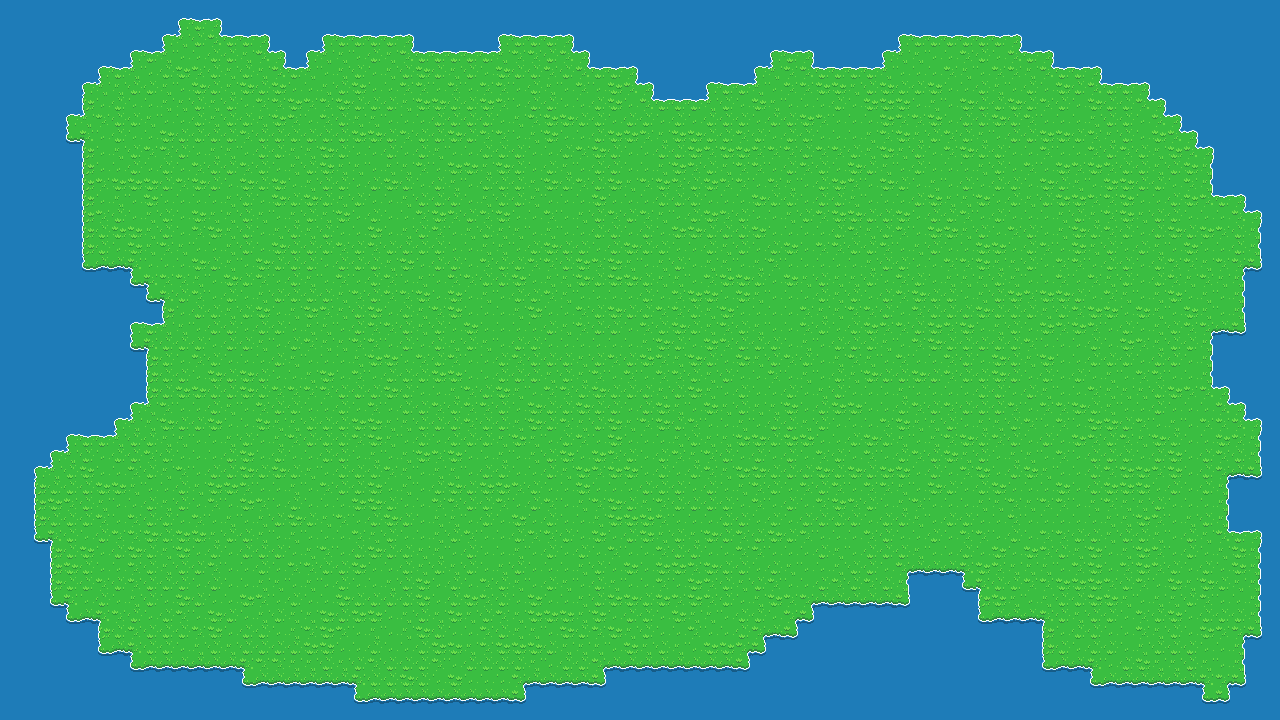
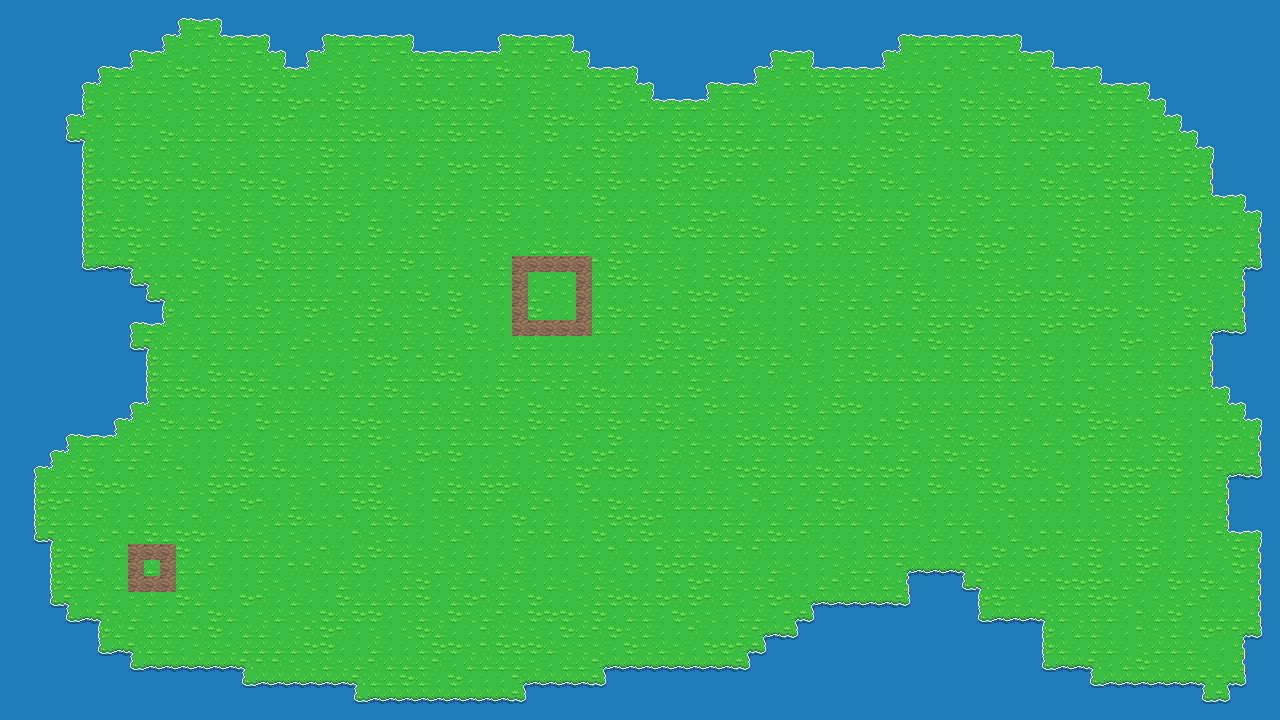
Création de l'entité house

Changed region(s): [[0.375, 0.3361, 0.4688, 0.4889], [0.0938, 0.7333, 0.1562, 0.825]]

diff --git a/src/world.py b/src/world.py
@@ -6,6 +6,7 @@ from debug import debug
 from src.player import Player
 from src.weapon import Weapon
 from src.enemy import Enemy
+from src.house import House
 from src.toolbox.import_world import get_info_map
 from src.ui import UI
 
@@ -50,6 +51,7 @@ class World():
         
     def createWorld(self):
         player_spawn = []
+        house_spawn = []
         layout = get_info_map(self.map_name)
         for style, layer in layout.items():
             for row_index, row in enumerate(layer):
@@ -59,12 +61,14 @@ class World():
                     if tile_id != 0 :
                         if style == 'boundary':
                             Tile((x,y),[self.obstacle_sprites], 'invisible')
-                        if style =='data':
-                            if tile_id == 11 :
+                        if style =='entity':
+                            if tile_id == 50 :
                                 player_spawn.append([x, y])
-                            if tile_id == 22 :
+                            if tile_id == 48 :
                                 self.mob_spawn.append([x, y])
-        
+                            if tile_id == 49 :
+                                house_spawn.append([x, y])
+        # TODO faire une fonction pour chech if empty
         if len(player_spawn) == 0 :
             player_spawn.append([WIDTH/2, HEIGHT/2])
             # TODO ficher de log
@@ -72,9 +76,13 @@ class World():
         if len(self.mob_spawn) == 0 :
             self.mob_spawn.append([WIDTH/2, HEIGHT/2])
             print(f'INFO - Pas de tile de spawn des ennemies dans {self.map_name}')
+        if len(house_spawn) == 0 :
+            house_spawn.append([WIDTH/2, HEIGHT/2])
+            print(f'INFO - Pas de tile de spawnde la maison dans {self.map_name}')
         
         self.player = Player((random.choice(player_spawn)), [self.visible_sprites], self.obstacle_sprites, self.createAttack, self.destory_attack)   
-        self.spawnEnemy(10)
+        self.house = House((random.choice(house_spawn)), [self.visible_sprites, self.obstacle_sprites])
+        self.spawnEnemy(0)
 
     def spawnEnemy(self, numberOfEnemy):
         enemy_list = []

diff --git a/settings.py b/settings.py
@@ -4,6 +4,7 @@ FPS = 60
 
 TILE_SIZE = 16
 GAME_UPSCALE = 4
+
 #UI
 BAR_HEIGHT = 20
 HEALTH_BAR_WIDTH = 200
@@ -35,10 +36,17 @@ weapons_data = {
     'sword' : {'cooldown' : 100, 'damage' : 10, 'graphic' : 'assets/weapon/sword/full.png'},
     'axe' : {'cooldown' : 200, 'damage' : 5, 'graphic' : 'assets/weapon/axe/full.png'}}
 
-#Enemys
+# Enemys
 monster_data = {
     'skull' : {'health' : 20,    'damage' : 5, 'gold_amount': 1, 'attack_type' : 'slash', 'attack_sound' : None, 'speed' : 5, 'resistance' : 3, 'attack_radius': 20, 'notice_radius': 360},
     'cyclope' : {'health' : 100, 'damage' : 15, 'gold_amount': 5, 'attack_type' : 'claw',  'attack_sound' : None, 'speed' : 3, 'resistance' : 10, 'attack_radius': 50, 'notice_radius': 360}}
+
+# House
+house_data = {
+    'health': 1000,
+    'graphic' : { 'asset' : 'assets\entity\maison.png', 'width' : 80, 'height' : 80}
+}
+
 
 # MAP
 EMPTY_MAP = "map_empty_80_45"

diff --git a/src/house.py b/src/house.py
@@ -1,0 +1,26 @@
+import pygame
+
+from settings import *
+from src.entity import Entity, SpriteSheet
+
+
+class House(Entity):
+
+    def __init__(self, position, groups):
+        super().__init__(groups)
+        
+        spritesheet_image = pygame.image.load(house_data['graphic']['asset']).convert_alpha()
+        spritesheet_sprite = SpriteSheet(spritesheet_image)
+        self.image = spritesheet_sprite.get_image(0, 0, 80, 80)
+        position[0] -= TILE_SIZE*GAME_UPSCALE*2
+        position[1] -= TILE_SIZE*GAME_UPSCALE*2
+        self.rect = self.image.get_rect(topleft = position)
+
+        self.hitbox = self.rect.inflate(0, 0).move(0, 0)
+
+        #stats
+        self.health = house_data['health']
+        
+
+
+

diff --git a/src/toolbox/import_world.py b/src/toolbox/import_world.py
@@ -4,7 +4,7 @@ def get_info_map(map_name):
     tmxdata = pytmx.TiledMap("assets\\map\\tmx\\"+map_name+".tmx")
     layout = {
             "boundary" : tmxdata.get_layer_by_name("collision").data,
-            "data" : tmxdata.get_layer_by_name("data").data
+            "entity" : tmxdata.get_layer_by_name("entity").data
             }
     return layout
 

diff --git a/src/player.py b/src/player.py
@@ -13,7 +13,6 @@ class Player(Entity) :
         self.rect = self.image.get_rect(topleft = position)
         hb_y_size_reduc = 10
         self.hitbox = self.rect.inflate(0,-hb_y_size_reduc*GAME_UPSCALE).move(0,hb_y_size_reduc/2*GAME_UPSCALE)
-        self.obstacle_sprites = obstacle_sprites
 
         #stats
         self.stats = player_data
